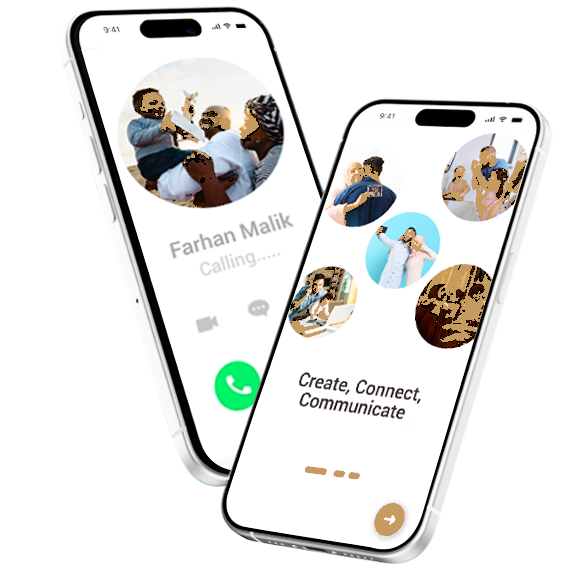
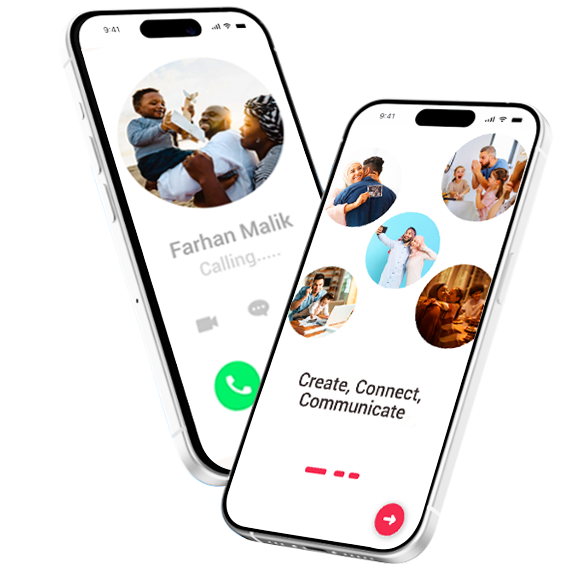
Update public images to gold assets

diff --git a/app/(public)/page.tsx b/app/(public)/page.tsx
@@ -255,7 +255,7 @@ export default async function HomePage() {
             </div>
             <div className="public-about-image">
               {/* eslint-disable-next-line @next/next/no-img-element */}
-              <img src="/images/why-match.webp" alt="image" />
+              <img src="/images/why-match-gold.png" alt="image" />
             </div>
           </div>
         </div>
@@ -316,7 +316,7 @@ export default async function HomePage() {
             <div>
               {/* eslint-disable-next-line @next/next/no-img-element */}
               <img
-                src="/images/verify-blue-tick.webp"
+                src="/images/verify-gold-logo.png"
                 alt=""
                 className="public-verified-image"
               />
@@ -343,7 +343,7 @@ export default async function HomePage() {
             <div>
               <div className="public-visibility-image">
                 {/* eslint-disable-next-line @next/next/no-img-element */}
-                <img src="/images/broad-visibility.webp" alt="" />
+                <img src="/images/broad-visibility-gold.png" alt="" />
               </div>
             </div>
           </div>
